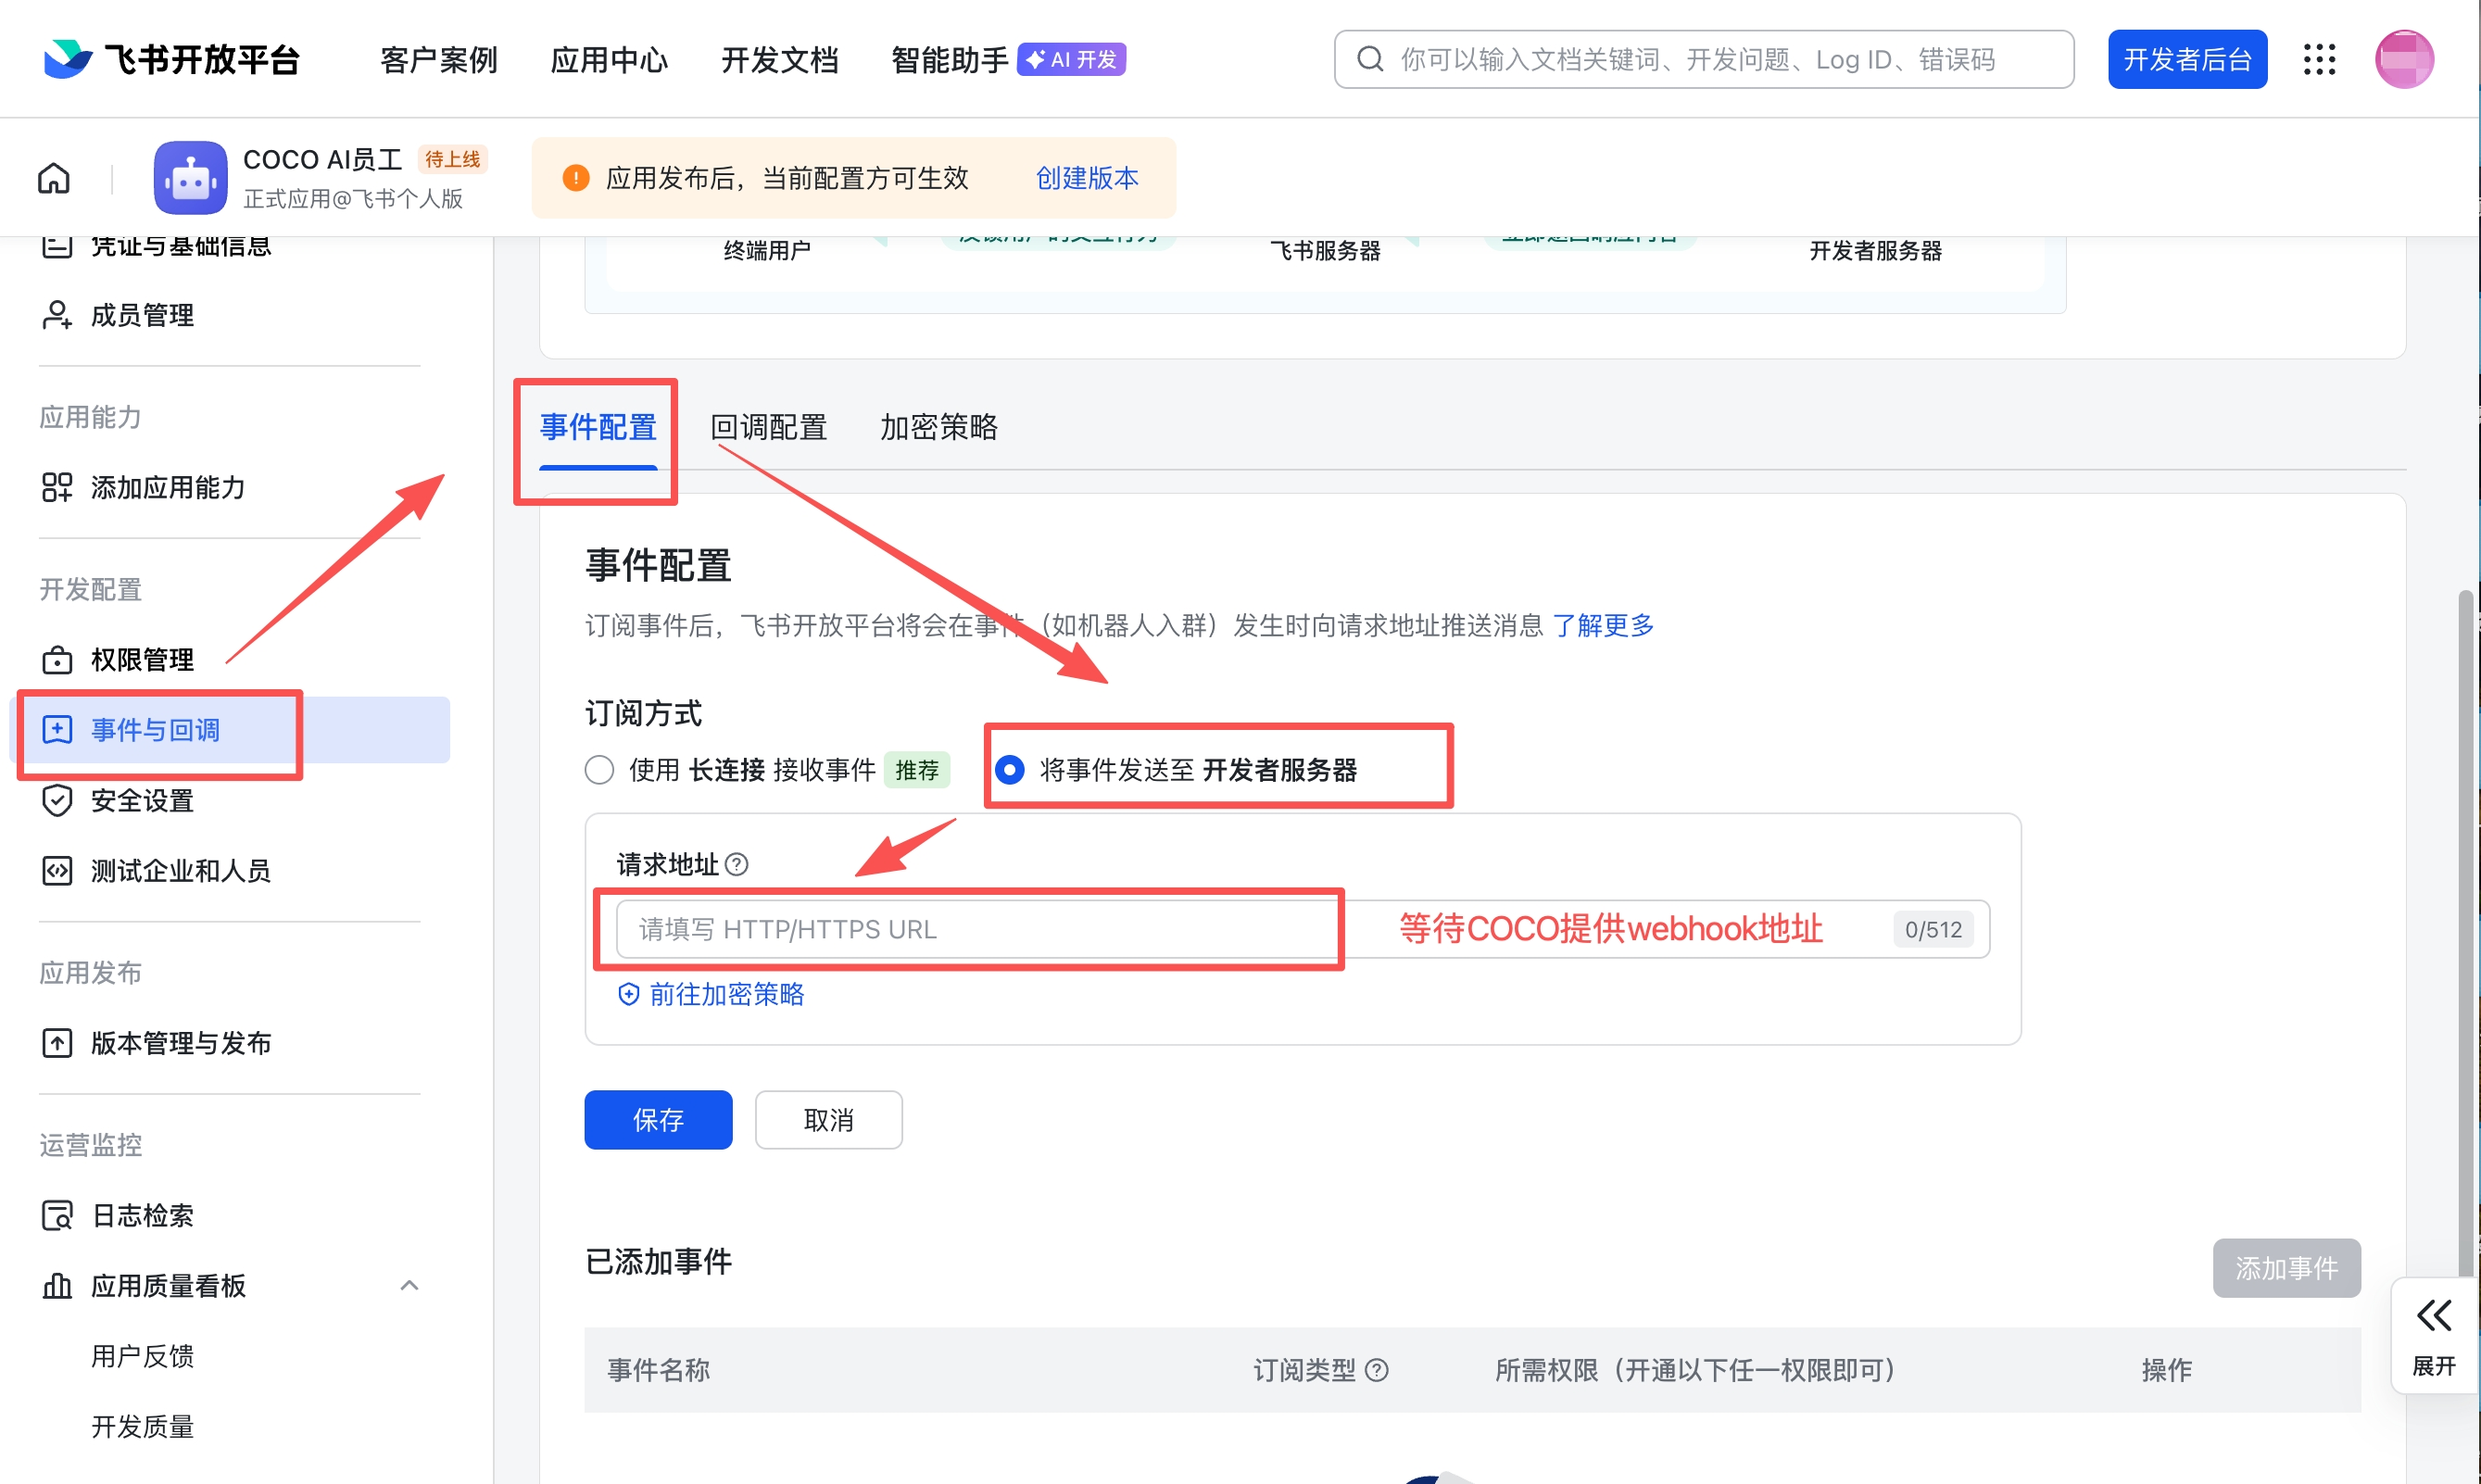
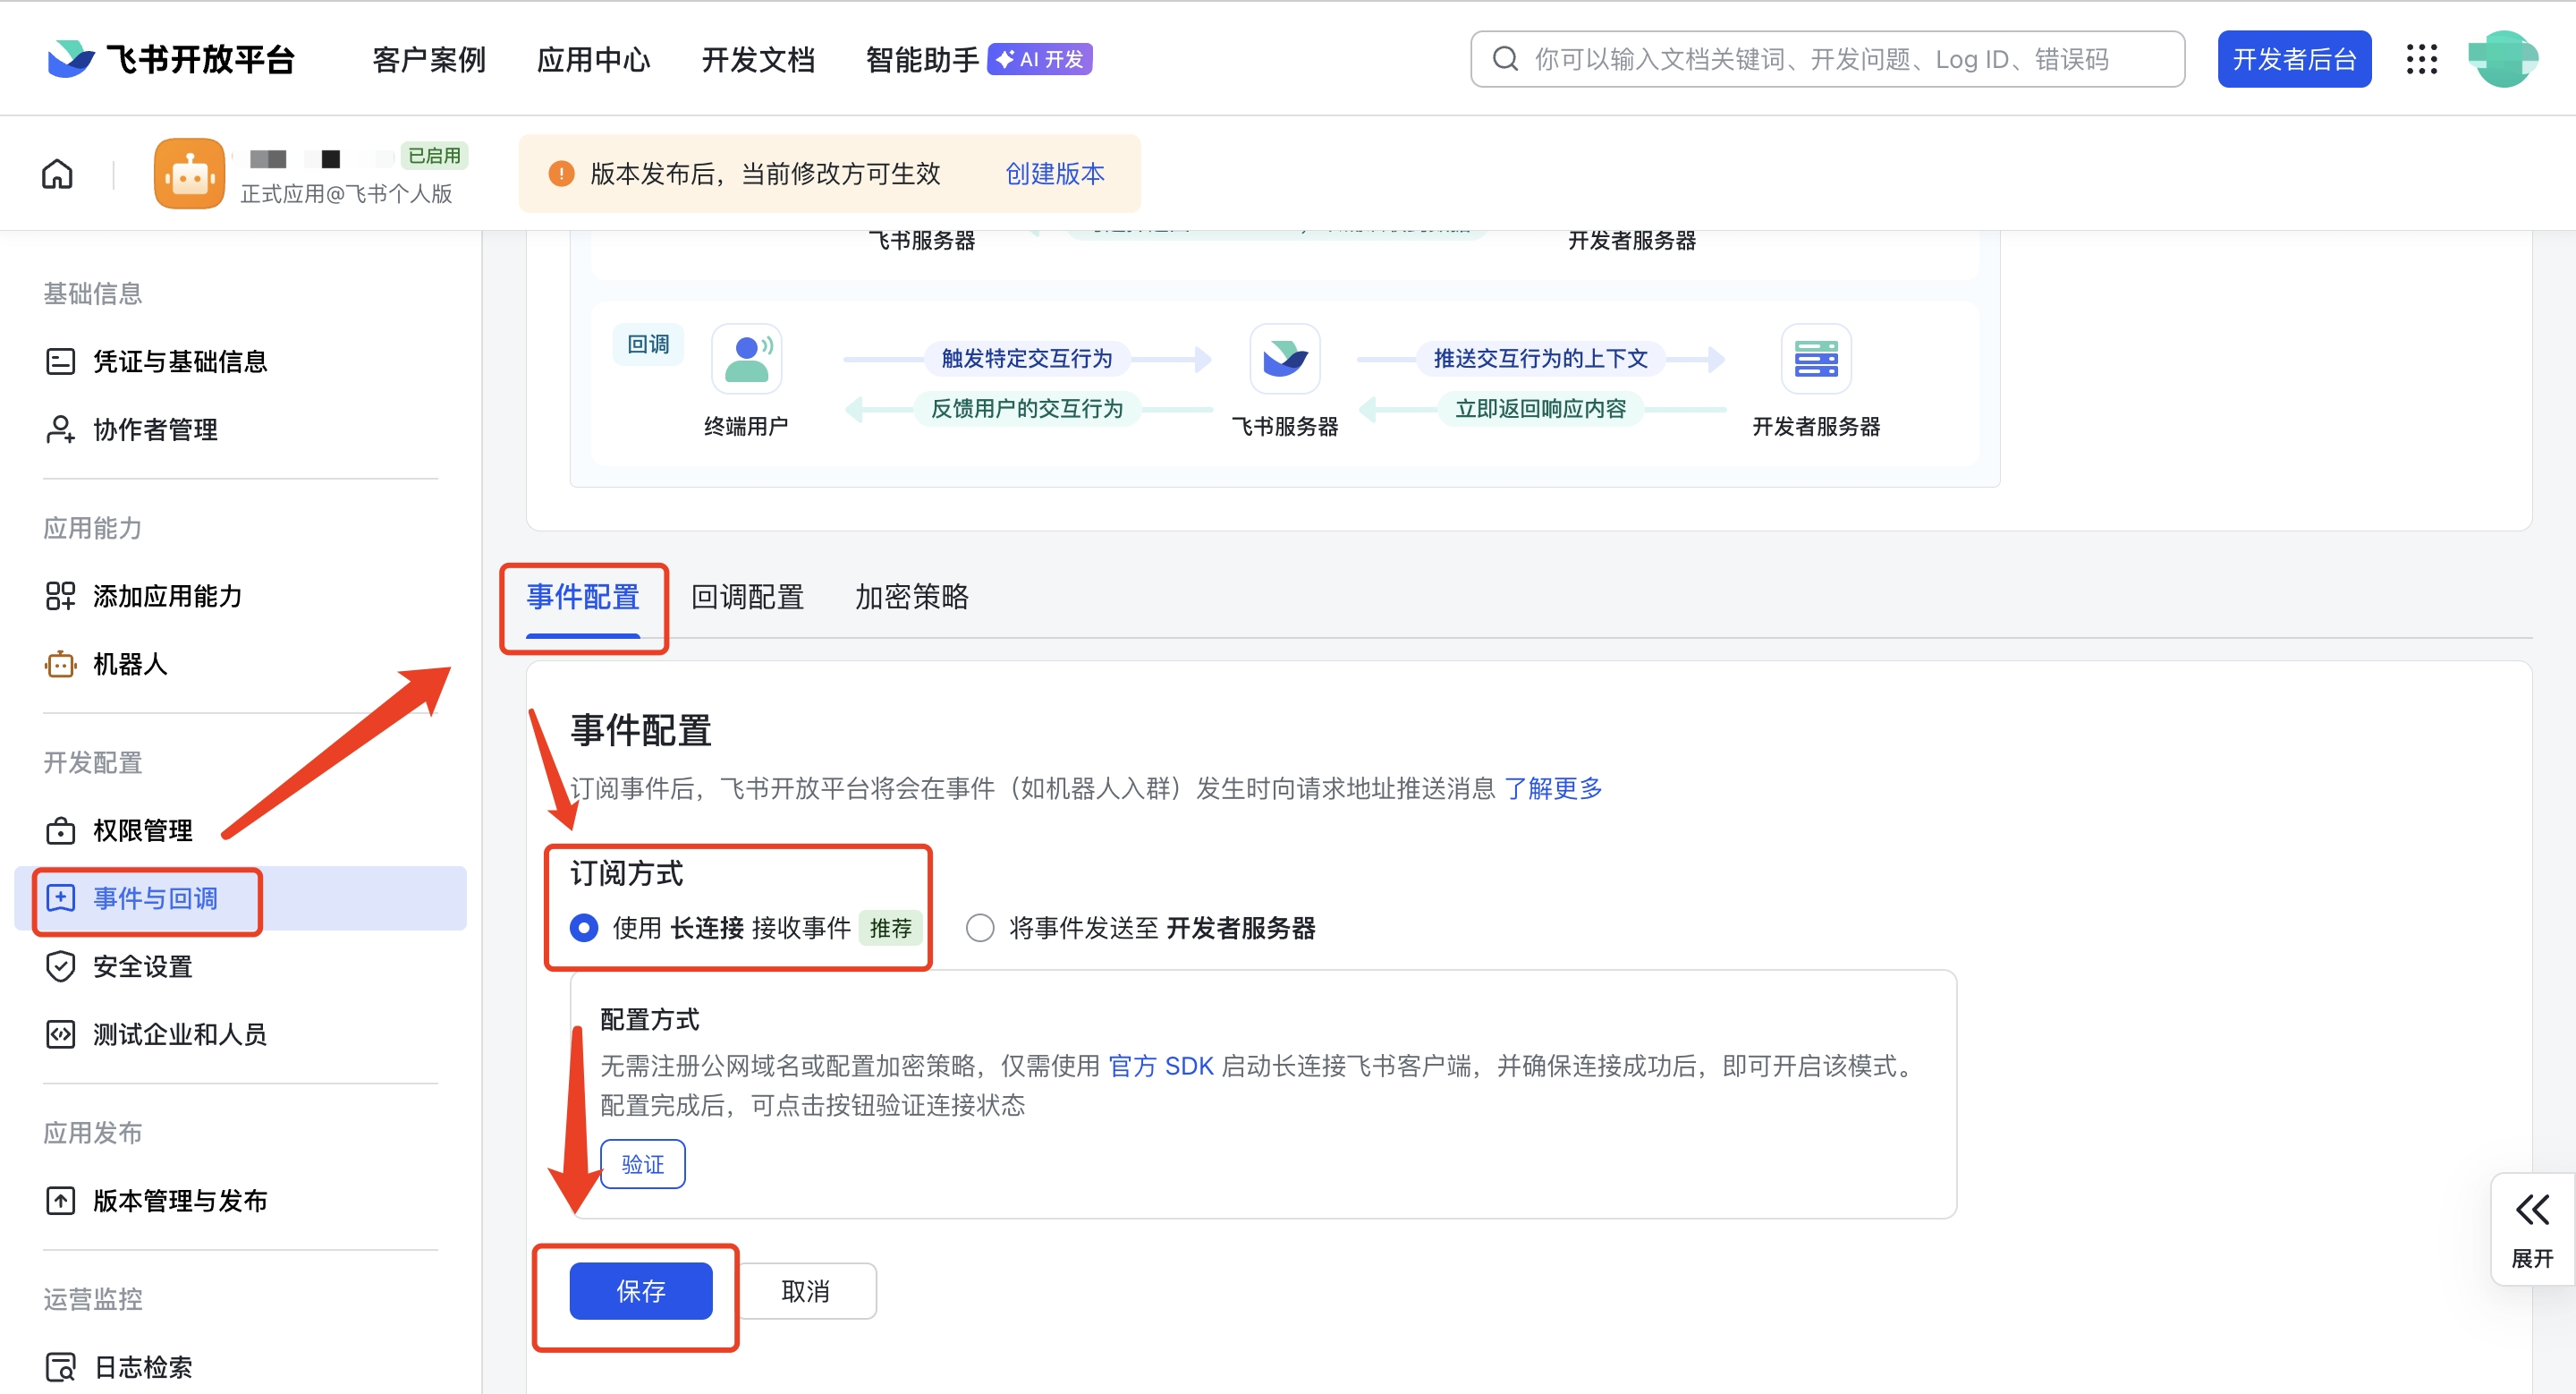
fix(feishu): image zoom z-index fix, yellow event code blocks, and screenshot updates (#119)
- medium-zoom overlay/image z-index fix（1000/1001），避免代码块穿透
- 新增 `.event-code` 黄色高亮 (#F5C542) 突出事件名
- 替换 2 张截图：feishu-events.png + feishu-search-bot.png
- 飞书事件订阅段把 `im.message.receive_v1` / `im.chat.member.bot.added_v1` 包进 wrapper 应用样式

Pull request: fix(feishu): image zoom z-index fix, yellow event code blocks, and screenshot updates
## Changes

Follow-up fixes for the Feishu tutorial (after #118 was merged).

**Bug fixes:**
- Fixed medium-zoom z-index issue: zoomed images now render above code blocks (overlay z-index: 1000, image z-index: 1001)
- Prevents the "bleed-through" problem where code blocks overlap expanded screenshots

**Styling:**
- Added `.event-code` CSS class for yellow-colored code blocks (`#F5C542`) with copy buttons
- Event names (`im.message.receive_v1`, `im.chat.member.bot.added_v1`) now display in brand yellow

**Screenshot updates:**
- Step 6: replaced `feishu-events.png` with new screenshot showing WebSocket long-connection mode selected
- Step 7: replaced `feishu-search-bot.png` with new Feishu client search result screenshot

diff --git a/docs/.vitepress/theme/custom.css b/docs/.vitepress/theme/custom.css
@@ -241,6 +241,27 @@
   padding-top: 0 !important;
 }
 
+/* ===== Medium-zoom z-index fix ===== */
+/* Prevent code blocks / positioned elements from bleeding through zoomed images */
+.medium-zoom-overlay {
+  z-index: 1000 !important;
+}
+.medium-zoom-image--opened,
+.medium-zoom--opened .medium-zoom-image {
+  z-index: 1001 !important;
+}
+
+/* ===== Event name code blocks (yellow text) ===== */
+.event-code div[class*="language-"] {
+  margin: 4px 0 !important;
+}
+.event-code div[class*="language-"] code {
+  color: #F5C542 !important;
+}
+.event-code div[class*="language-"] code span {
+  color: #F5C542 !important;
+}
+
 /* ===== Tables ===== */
 /* Ensure horizontal scroll on narrow viewports */
 .vp-doc table {